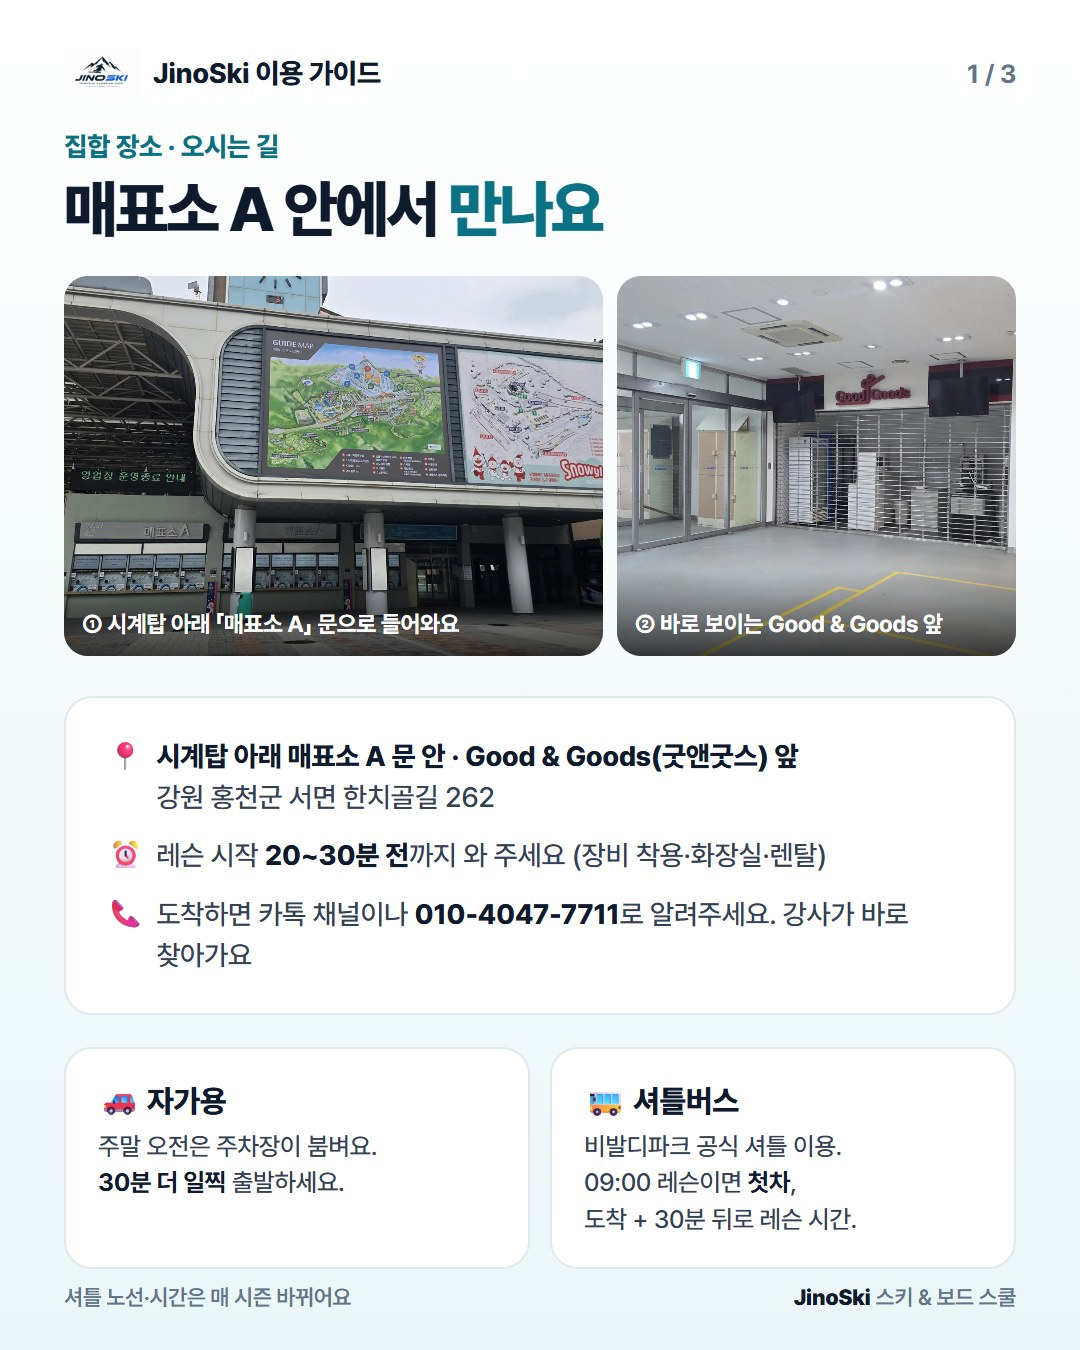
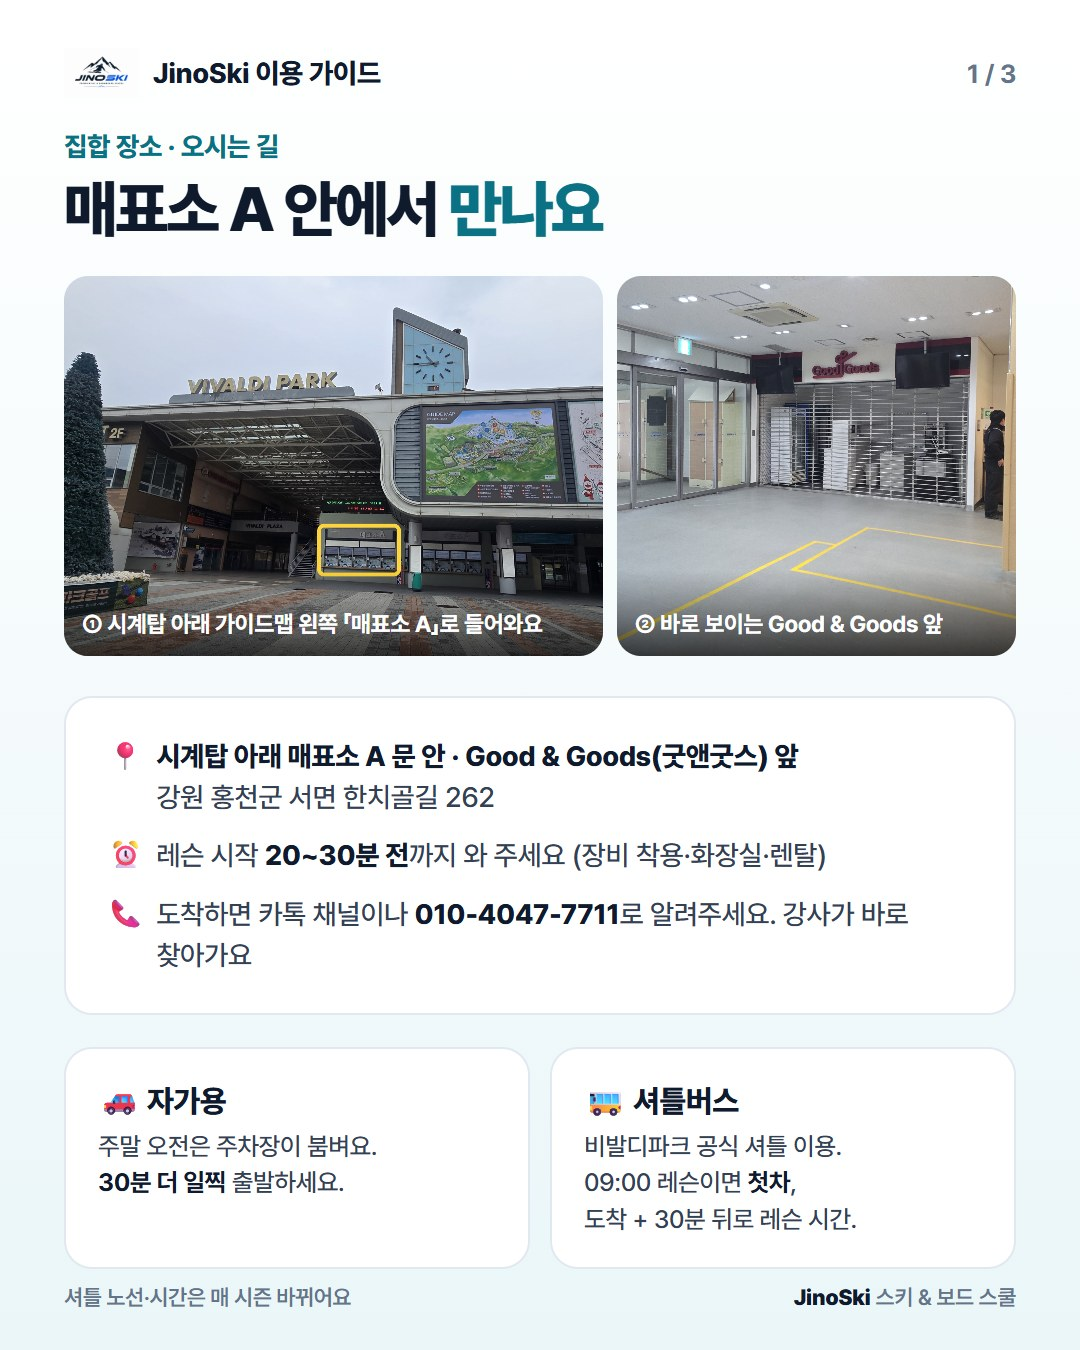
오시는 길 그림: 대표 사진(정면 매표소 A 표시 · Good & Goods 앞)으로

Changed region(s): [[0.0611, 0.1867, 0.9472, 0.4978], [0.7944, 0.1867, 0.825, 0.2178]]

diff --git a/src/components/shared/guide-cards.tsx b/src/components/shared/guide-cards.tsx
@@ -261,7 +261,7 @@ export const JUNIOR_CARDS: GuideCard[] = [
 ];
 
 export const VIVALDI_CARDS: GuideCard[] = [
-  { src: "/images/guide/vivaldi-1.jpg", alt: "지노스키 집합 장소 — 비발디파크 시계탑 아래 매표소 A 문 안 Good & Goods(굿앤굿스) 앞(강원 홍천군 서면 한치골길 262), 레슨 20~30분 전 도착, 도착하면 카톡이나 010-4047-7711로 연락. 사진: 시계탑 아래 매표소 A 문, 안에 들어가면 보이는 Good & Goods 가게. 자가용·셔틀버스 오는 법" },
+  { src: "/images/guide/vivaldi-1.jpg", alt: "지노스키 집합 장소 — 비발디파크 시계탑 아래 매표소 A 문 안 Good & Goods(굿앤굿스) 앞(강원 홍천군 서면 한치골길 262), 레슨 20~30분 전 도착, 도착하면 카톡이나 010-4047-7711로 연락. 사진: 비발디파크 정면 시계탑 아래 가이드맵 왼쪽 매표소 A(노란 표시), 안에 들어가면 보이는 Good & Goods 가게. 자가용·셔틀버스 오는 법" },
   { src: "/images/guide/vivaldi-2.jpg", alt: "패찰·리프트권·장비 렌탈 안내 — 패찰(강습 허가권) 1인 2시간 25,000원·3시간 35,000원·4시간 50,000원, 레슨 뒤 더 타려면 개인 리프트권 필요, 아이 장비는 키·몸무게 알려주기, 리프트·장비 지노스키 예약 시 40% 할인" },
   { src: "/images/guide/vivaldi-3.jpg", alt: "스키 강습 준비물 — 방수 스키복, 장갑, 고글, 넥워머, 여벌 양말, 간식·물, 휴대폰 방수팩. 산 위는 영하 10도 이하인 날이 많아 여러 겹 입기, 폭설·강풍으로 슬로프가 닫히면 변경 또는 전액 환불" },
 ];
